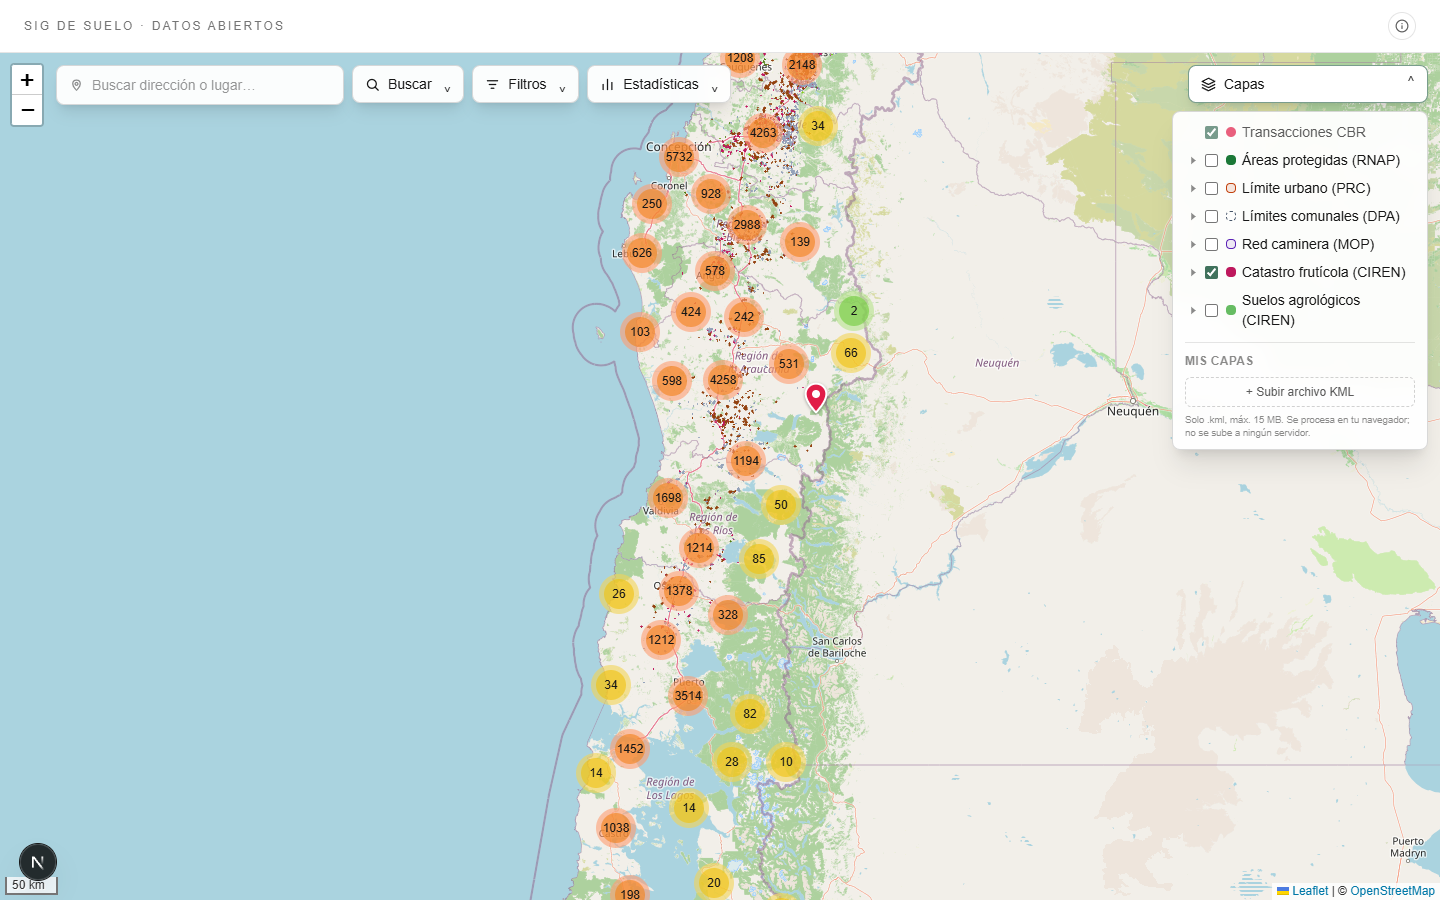
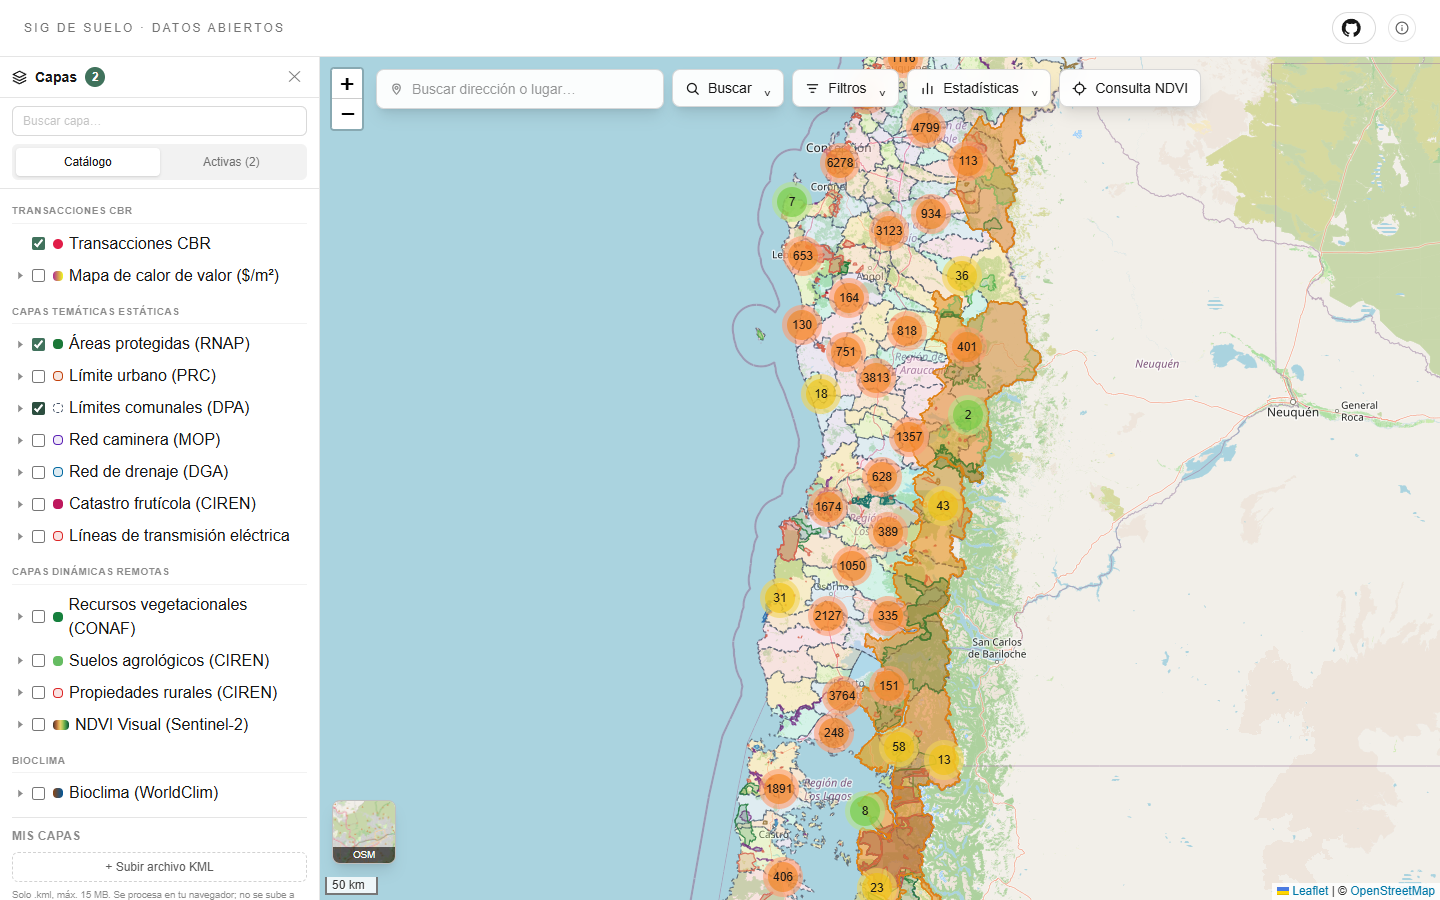
docs(readme): refresh screenshot with the current layer panel

diff --git a/README.md b/README.md
@@ -10,7 +10,7 @@ The project is designed as an ecoinformatics research tool and as a practical
 reference for professionals working on court-ordered appraisals and
 expropriations.
 
-![Main GIS view showing clustered CBR transactions across south-central Chile with the layer panel open](./docs/assets/screenshot-capas.png)
+![Map of south-central Chile with clustered CBR transactions, protected areas and communal boundaries, and the layer panel open](./docs/assets/screenshot-capas.png)
 
 ## Technology stack
 
